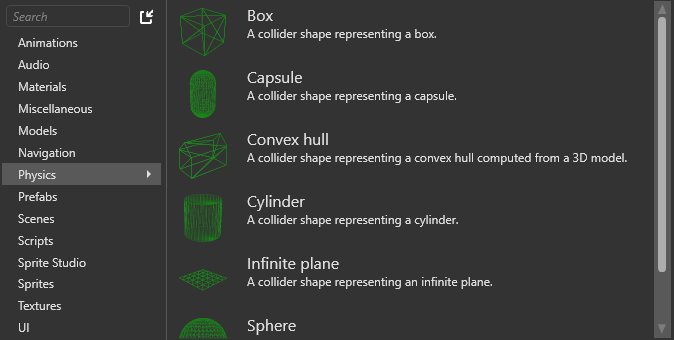
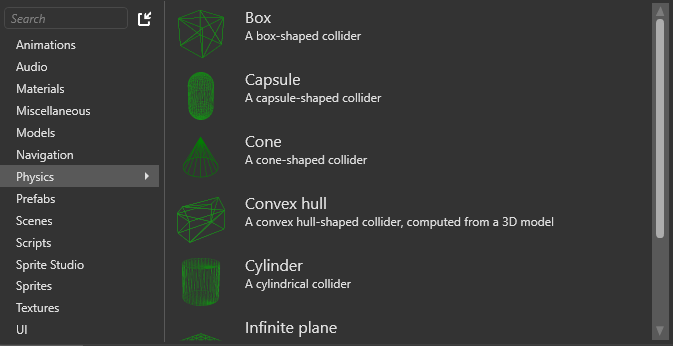
[Physics] update screenshots

diff --git a/manual/physics/collider-shapes.md b/manual/physics/collider-shapes.md
@@ -39,6 +39,8 @@ The capsule shape is especially useful for character components, as its curved b
 
 ### Cone
 
+![Cone](media/cone.png)
+
 | Property       | Description |
 | -------------- |-------------| 
 | Height | The height of the cone.|
